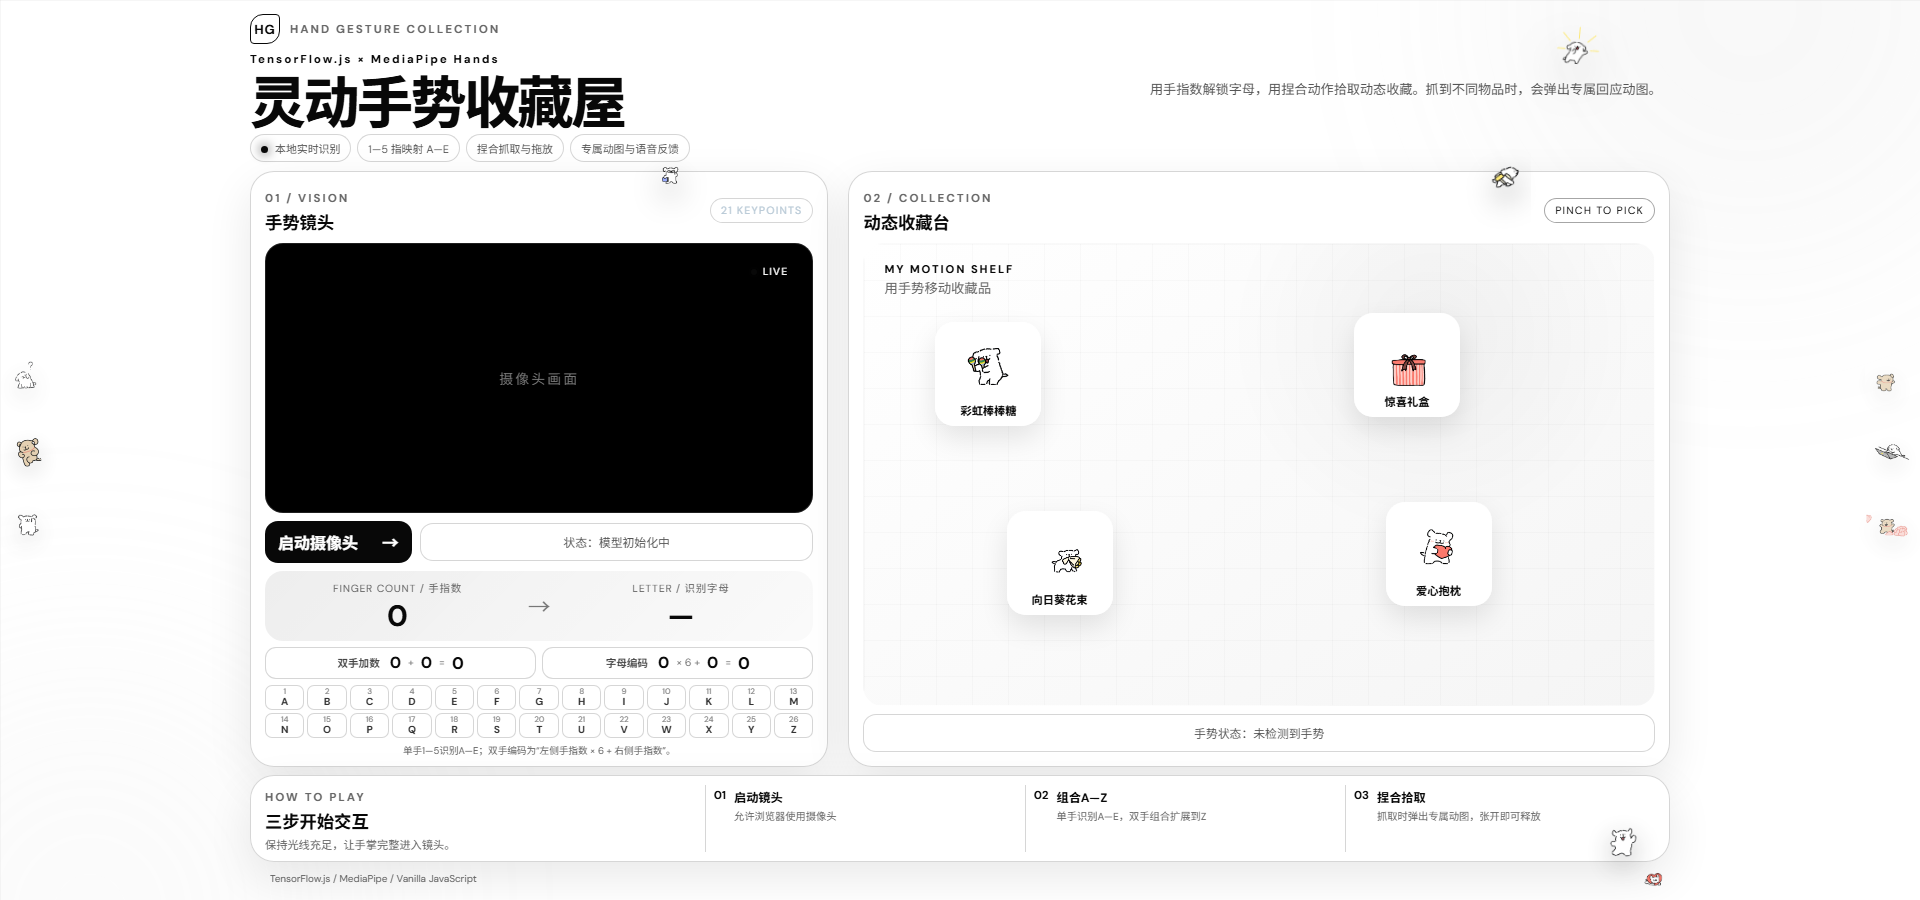
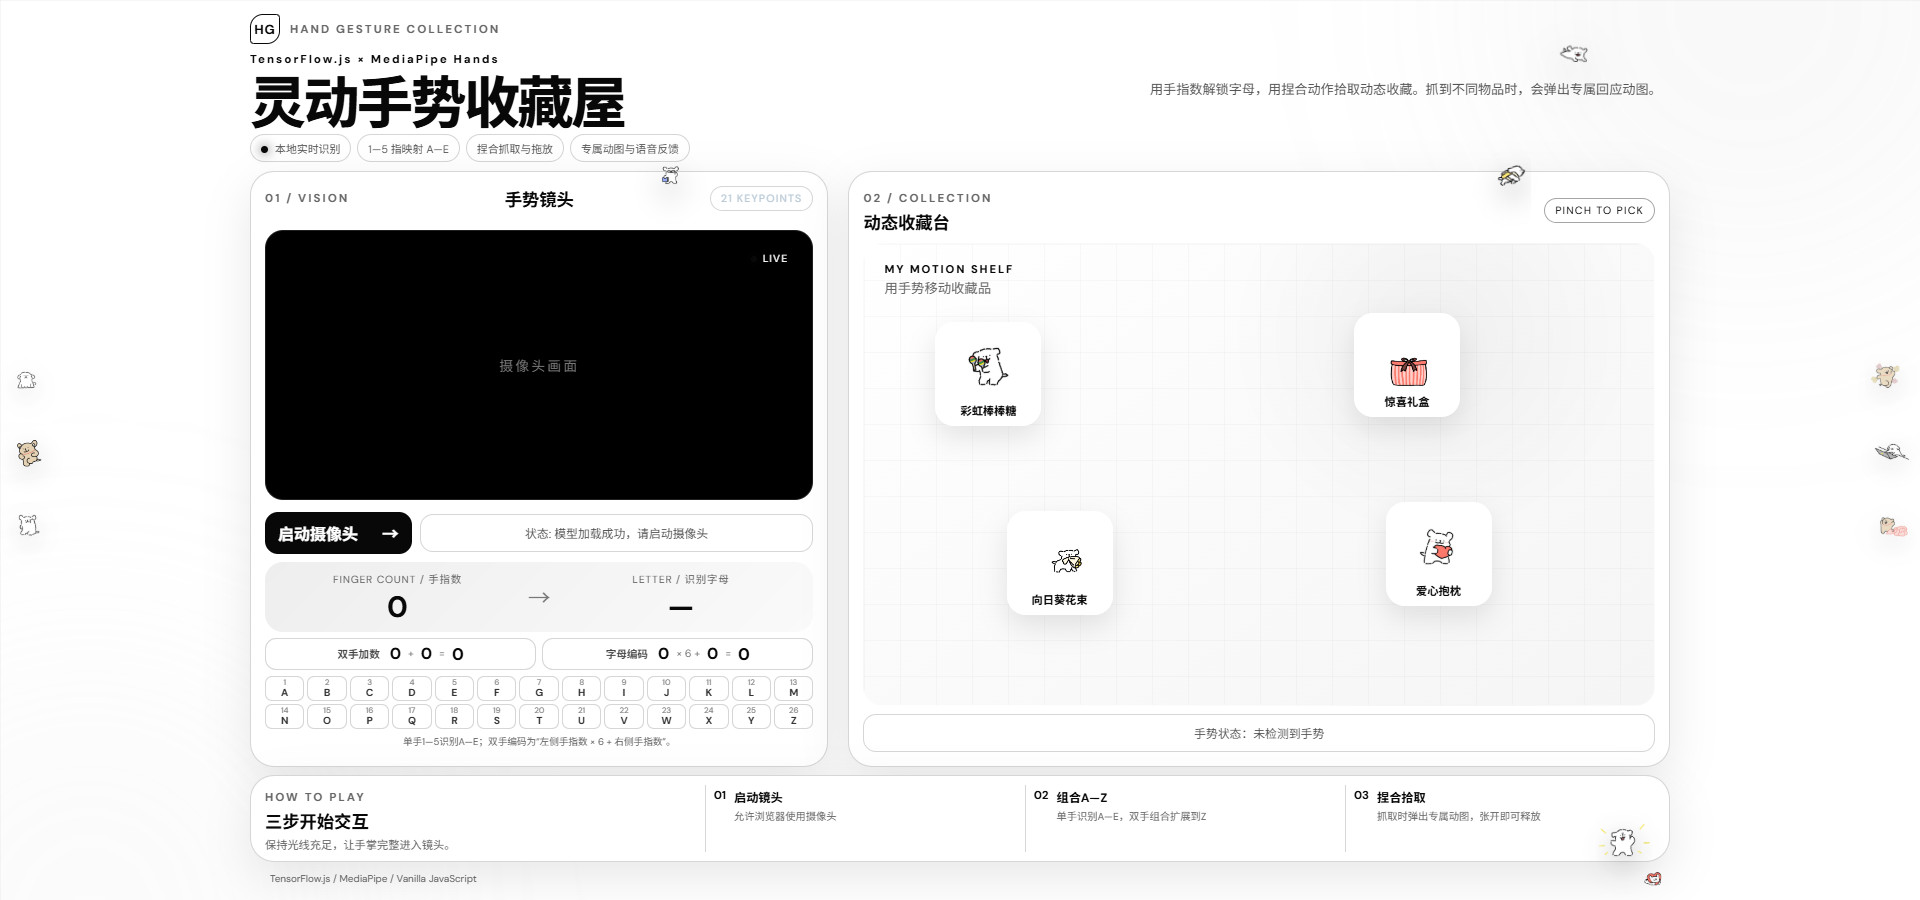
fix: reposition camera heading and controls

diff --git a/src/index.css b/src/index.css
@@ -138,12 +138,22 @@ h1 span { color: var(--yellow); }
 }
 .section-heading { justify-content: space-between; gap: 16px; margin-bottom: 9px; }
 .section-heading h2, .guide h2 { margin-top: 2px; font-size: 1.08rem; }
+.camera-section .section-heading {
+  display: grid;
+  grid-template-columns: 1fr auto 1fr;
+  align-items: center;
+  width: 100%;
+}
+.camera-section .section-heading .section-index { justify-self: start; }
+.camera-section .section-heading h2 { justify-self: center; margin: 0; }
+.camera-section .section-heading .model-chip { justify-self: end; }
 .model-chip { font-size: .66rem; letter-spacing: .12em; }
 .accent-chip { border-color: rgba(255,200,87,.32); color: var(--yellow); }
 
 .video-container {
   position: relative;
   height: clamp(235px, 30vh, 290px);
+  margin-top: 10px;
   flex: 0 0 auto;
   overflow: hidden;
   border: 1px solid rgba(255,255,255,.12);
@@ -182,7 +192,7 @@ canvas { z-index: 2; }
   background: var(--coral);
   box-shadow: 0 0 9px var(--coral);
 }
-.camera-controls { gap: 8px; margin-top: 8px; }
+.camera-controls { gap: 8px; margin-top: 12px; }
 .btn {
   flex: 0 0 auto;
   display: flex;
@@ -567,8 +577,8 @@ h1 span, .kicker, .stage-title span, .reaction-kicker { color: #080808; }
   .model-chip { padding: 4px 8px; font-size: .55rem; }
   .panel-sticker { top: -18px; width: 42px; height: 42px; }
 
-  .video-container { height: clamp(250px, 34vh, 275px); border-radius: 13px; }
-  .camera-controls { margin-top: 4px; }
+  .video-container { height: clamp(250px, 34vh, 275px); margin-top: 10px; border-radius: 13px; }
+  .camera-controls { margin-top: 12px; }
   .btn { padding: 5px 10px; font-size: .68rem; }
   .status { min-height: 27px; padding: 3px 7px; font-size: .59rem; }
 

diff --git a/index.html b/index.html
@@ -46,10 +46,8 @@
       <section class="camera-section panel">
         <img class="decor panel-sticker camera-sticker" src="./19套表情包素材/有学问的样子.gif" alt="智能识别动态贴纸">
         <div class="section-heading">
-          <div>
-            <span class="section-index">01 / VISION</span>
-            <h2>手势镜头</h2>
-          </div>
+          <span class="section-index">01 / VISION</span>
+          <h2>手势镜头</h2>
           <span class="model-chip">21 KEYPOINTS</span>
         </div>
         <div class="video-container">
